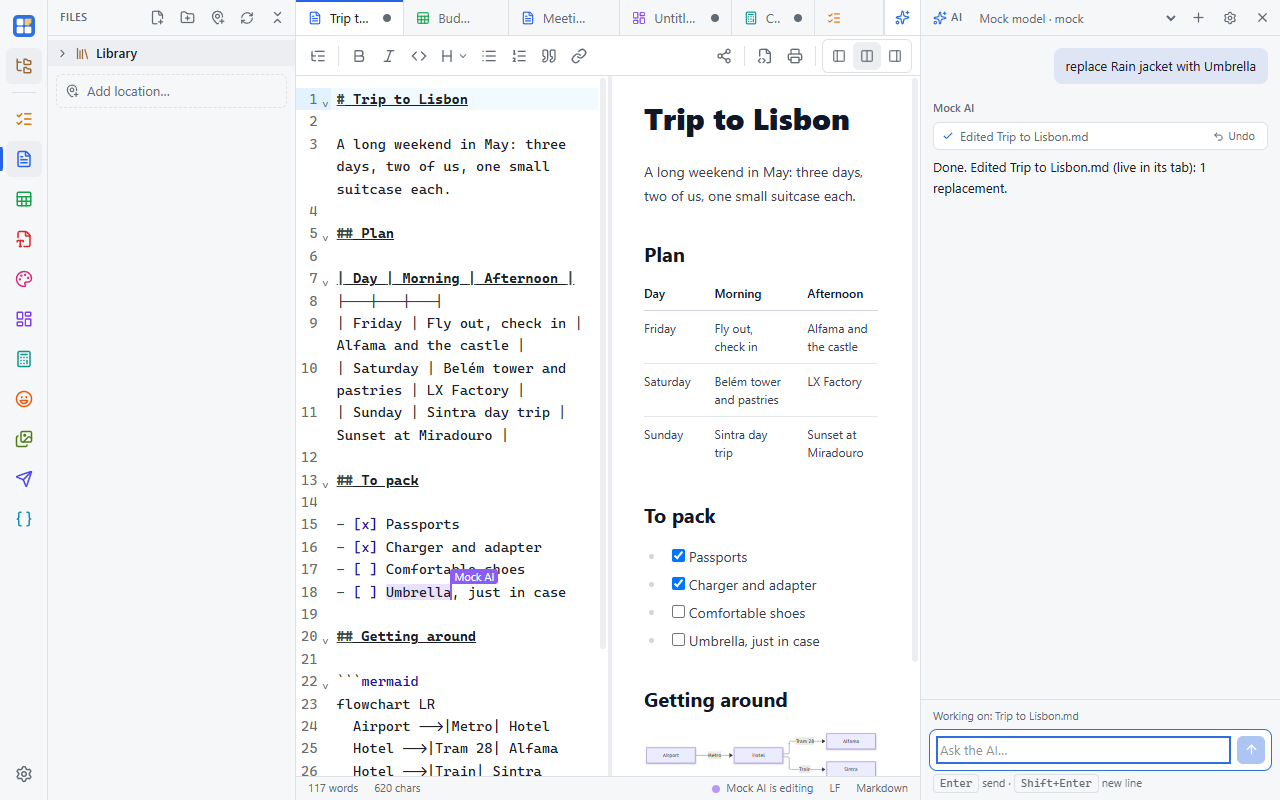
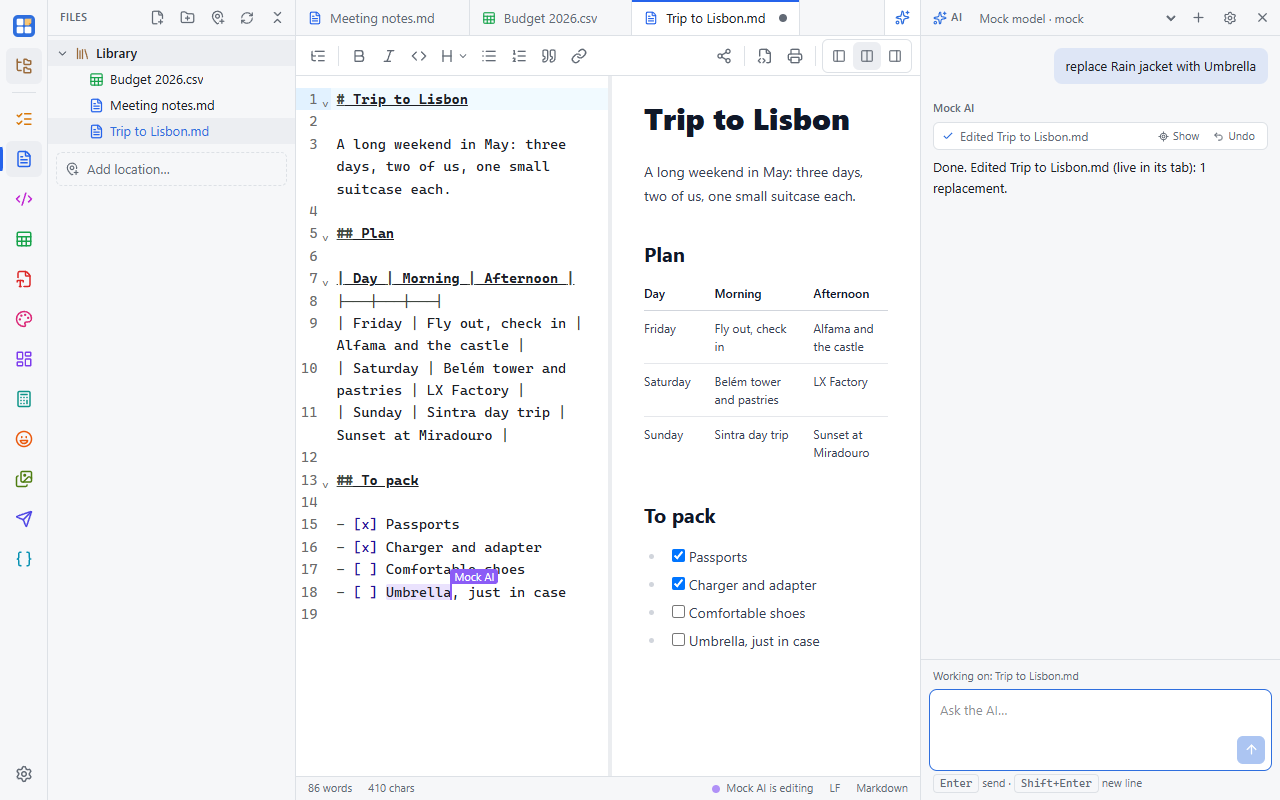
Docs for 0.2.0: HTML app, Excel workbooks, AI in every app, Settings page, screenshots
- New pages: HTML, and a Settings reference
- CSV: Excel and OpenDocument workbooks; files table, landing card (twelve apps)
- AI sidebar and agents: what the AI can do in each app, Show, permissions,
  apps agents can use, Claude Code and Codex setup
- Phone, shortcuts, Files panel menu, FAQ on Sync's removal, Paint undo
- Screenshots for HTML, PDF, Paint, Meme Maker, Images, API client, JSON and
  Activity; AI sidebar retaken with Show

diff --git a/site/src/lib/apps.ts b/site/src/lib/apps.ts
@@ -2,6 +2,7 @@
 import {
   Braces,
   Calculator,
+  CodeXml,
   FileText,
   FileType2,
   Images,
@@ -34,11 +35,19 @@ export const apps: AppInfo[] = [
     slug: "markdown",
   },
   {
+    id: "html",
+    name: "HTML",
+    icon: CodeXml,
+    color: "var(--tool-html)",
+    summary: "Edit a web page with the rendered page beside the code. Its scripts stay off until you turn them on.",
+    slug: "html",
+  },
+  {
     id: "csv",
     name: "CSV",
     icon: Sheet,
     color: "var(--tool-csv)",
-    summary: "Edit big spreadsheets fast: sort, filter, find and replace, fill series, and keep the file's exact format.",
+    summary: "Edit big spreadsheets fast: sort, filter, find and replace, fill series, and keep the file's exact format. Opens Excel and OpenDocument workbooks too.",
     slug: "csv",
   },
   {

diff --git a/site/src/styles/global.css b/site/src/styles/global.css
@@ -34,6 +34,7 @@
   --tool-images: #4d7c0f;
   --tool-api: #4f46e5;
   --tool-json: #0891b2;
+  --tool-html: #c026d3;
   --folder: #9a6a3a;
   /* Extra steps for Starlight's gray scale (strongest text first). */
   --fg-strong: #0f1114;
@@ -69,6 +70,7 @@
   --tool-images: #a3e635;
   --tool-api: #818cf8;
   --tool-json: #22d3ee;
+  --tool-html: #e879f9;
   --folder: #d2a679;
   --fg-strong: #f5f6f8;
   --gray-2: #c4cad2;
@@ -104,6 +106,7 @@
     --tool-images: #a3e635;
     --tool-api: #818cf8;
     --tool-json: #22d3ee;
+    --tool-html: #e879f9;
     --folder: #d2a679;
     --fg-strong: #f5f6f8;
     --gray-2: #c4cad2;

diff --git a/site/src/content/docs/docs/ai/agents.md b/site/src/content/docs/docs/ai/agents.md
@@ -4,9 +4,10 @@ description: Let Claude Desktop, Claude Code, Codex or any MCP client work in yo
 ---
 
 Simple Desk can act as an [MCP](https://modelcontextprotocol.io) server, so AI agents on your computer (Claude Desktop,
-Claude Code, Codex, or any MCP client) can read and edit your documents and to-dos while Simple Desk is open. Their edits
+Claude Code, Codex, or any MCP client) can read and edit your documents, tables, boards, PDFs, pictures and to-dos while
+Simple Desk is open. Their edits
 appear live, with their name on the cursor, and every change is listed in
-[AI activity](/docs/ai/activity/), where you can undo it.
+[AI activity](/docs/ai/activity/), where you can jump to it or undo it.
 
 This is in the desktop app only, and off until you turn it on.
 
@@ -28,10 +29,46 @@ Agents start a small helper (`simple-desk-agent --mcp`) that talks to the agent 
 Simple Desk if it isn't running. **Advanced** shows the raw endpoint (`http://127.0.0.1:47321/mcp`, Streamable HTTP with
 a bearer token) for clients that connect over HTTP.
 
+For Claude Code, the MCP tab shows a command to run in a terminal, with your app's path filled in:
+
+```sh
+claude mcp add simple-desk -- "<path to Simple Desk>" --mcp
+```
+
+For Codex, it shows an entry for `~/.codex/config.toml`:
+
+```toml
+[mcp_servers.simple-desk]
+command = "<path to Simple Desk>"
+args = ["--mcp"]
+```
+
 ## Permissions
 
-- **What agents may do:** read only, read and edit, or full.
+- **What agents may do:** **Read only**, **Read and edit**, or **Full**. Full also lets an agent delete and overwrite
+  (deleting to-dos, overwriting a file), and each of those asks you first. Sending an API request to another computer
+  also needs Full; requests to your own computer only need Read and edit.
 - **Ask me before every edit:** each change waits for your OK.
+- **Apps agents can use:** turn off the app tools an agent doesn't need, so it has fewer to read through. Files and
+  tabs are always on.
+
+## What agents can do
+
+| App | What an agent can do |
+|---|---|
+| Files and tabs | List and search your library, read any file (pictures as images), edit or create text files, open files, see your open tabs |
+| Markdown | Read with an outline, make focused edits, insert under a heading, create documents |
+| HTML and other text | Read and edit like any text file |
+| JSON | Read by path, edit values, format, minify or sort keys |
+| CSV | Read and query rows, edit cells, add or delete rows and columns, sort; Excel and OpenDocument sheets too |
+| Board | Read the board, add, update and delete elements, comment, take a snapshot, create boards |
+| Calculator | Read and edit graphs, analyze them (roots, intersections), evaluate expressions, create graphs |
+| PDF | Read text, look at pages, fill forms, add text, rotate, delete, move, insert or extract pages |
+| Paint | Edit a picture (resize, crop, rotate, shapes, text, fill), create pictures, generate them with your image service |
+| Meme Maker | Read and edit memes, search templates, create memes |
+| API client | Read and edit collections (secret values stay hidden), send requests, create collections |
+| Images | Inspect files, convert and resize, make icon sets, turn video into GIF or WebP |
+| To-do | List, add, update, complete and delete to-dos |
 
 Agents only reach your library and the locations you've added in the Files panel. Only programs on your own computer can
 connect (`127.0.0.1`), and only with the secret token. What an agent does with what it reads is up to that agent and the

diff --git a/site/src/content/docs/docs/ai/sidebar.md b/site/src/content/docs/docs/ai/sidebar.md
@@ -6,7 +6,7 @@ description: Chat with an AI about your documents. Bring your own key or use a l
 AI in Simple Desk works like a fast collaborator: its edits appear live in your open documents, with its name on the
 cursor, and each one can be undone on its own. It's optional and does nothing until you set up a model service.
 
-![The AI sidebar next to a Markdown document, after the AI replaced a word, with an Undo button](../../../../assets/screens/ai.png)
+![The AI sidebar next to a Markdown document, after the AI replaced a word, with Show and Undo buttons](../../../../assets/screens/ai.png)
 
 ## Set up a model
 
@@ -29,13 +29,24 @@ Open it with **Ctrl+Shift+A**, the sparkle button at the top right, or **Ctrl+K 
 looking at ("Working on: …"). It can:
 
 - answer questions about the document and summarize it;
-- edit Markdown with focused changes (find and replace, insert), never a blind rewrite;
-- create documents, browse and search your library, and read text files;
+- edit text, Markdown and HTML with focused changes (find and replace, insert), never a blind rewrite;
+- read and change JSON by path, and format, minify or sort it;
+- query and edit tables, including Excel and OpenDocument sheets: cells, rows, columns, sorting;
+- add, move and comment on things on a board, and look at a picture of it;
+- plot and analyze graphs, and work out calculations;
+- read PDFs, fill in forms, add text, and rotate, delete, move or extract pages;
+- edit pictures (resize, crop, shapes, text, colors) and generate new ones;
+- fill in memes, edit API collections and send their requests, and convert images or make icon sets;
+- create documents, browse and search your library;
 - add, update and complete to-dos.
+
+It uses each app's own tools, so it works on the document the way the app does. A file that's open in a tab changes in
+front of you.
 
 ## Undo, and asking first
 
-Every change shows as a chip with **Undo**, which takes back just that change, even after you've kept typing elsewhere.
+Every change shows as a chip with **Show** and **Undo**. **Show** opens the document at the change; **Undo** takes back
+just that change, even after you've kept typing elsewhere.
 Overwriting a file or deleting to-dos always asks you first.
 
 **Settings → AI → Activity** lists the changes an AI made since the app started (not what it only read). Changes made

diff --git a/site/src/content/docs/docs/apps/html.md b/site/src/content/docs/docs/apps/html.md
@@ -1,0 +1,50 @@
+---
+title: HTML
+description: Edit an HTML page and see it rendered beside the code, with the page's scripts off until you turn them on.
+---
+
+An editor for web pages. It opens `.html`, `.htm` and `.xhtml` files in a code editor, with the page rendered beside it.
+The app draws the page itself, so there's no extra browser to install. Turn it on in **Settings → Apps**.
+
+![An HTML page in Split view: the code on the left, the rendered page on the right](../../../../assets/screens/html.png)
+
+## Code, split or preview
+
+The buttons at the top right switch between **Code only**, **Split** and **Preview**. A page you open starts in Preview,
+and a new file starts in Split. The preview catches up with your typing after a short pause and keeps its scroll
+position. On a phone there's no Split: switch between the code and the page.
+
+The editor highlights HTML, including the CSS and JavaScript inside it. **Wrap lines** and **Copy** are in the toolbar.
+The status bar shows the page's title, its size, the number of lines, and whether scripts are on.
+
+Stylesheets, pictures and scripts that sit next to the file load as they would in a browser, so a page with a
+`style.css` and an `img` folder looks right. This works in the desktop app.
+
+## Scripts are off until you turn them on
+
+A page's JavaScript doesn't run until you click **Run scripts**. This keeps HTML files from other people harmless:
+opening a page can't run code. The setting is per tab.
+
+With scripts on, the page runs in a sandbox. It can't reach the app or your files.
+
+## Links
+
+With scripts off:
+
+- `#anchor` links scroll within the page;
+- web and email links open in your browser;
+- links to files next to the page open them in their app, and another `.html` page opens in a new tab.
+
+With scripts on, links navigate inside the preview, as they would in a browser. **Reload preview** brings your page
+back.
+
+## Open in a browser
+
+**Open in browser** shows the saved file in your default browser. It's there once the file is saved and has no
+unsaved changes.
+
+## AI
+
+The [AI sidebar](/docs/ai/sidebar/) and [connected agents](/docs/ai/agents/) edit HTML like any text file. Their
+changes appear live with their name on the cursor, and [Show](/docs/ai/activity/#showing-a-change) takes you back to
+them later.

diff --git a/site/src/content/docs/docs/settings.md b/site/src/content/docs/docs/settings.md
@@ -1,0 +1,51 @@
+---
+title: Settings
+description: What's in each section of Settings, and where each one is explained.
+---
+
+Open Settings with the gear at the bottom left, **Ctrl+,** or **Ctrl+K → Settings**. The sections are listed down the
+left side.
+
+## General
+
+- **Appearance:** Light, Dark, or System (follows your computer).
+- **Your name:** shown on your [board comments](/docs/apps/board/) and to the people you
+  [share a document](/docs/sharing/live-sharing/) with.
+- **Recent files:** the list on Home and in the command palette. **Clear** empties it.
+
+## Apps
+
+Turns apps on or off. A turned-off app disappears from Home, the sidebar, the command palette and the **New** menu, but
+its files still open when you double-click one. To-do, HTML, Calculator, Meme Maker, Images, the API client and JSON
+start turned off. See [First run](/docs/first-run/#choosing-your-apps).
+
+## Files
+
+- **Library:** where your documents live, `Documents/Simple Desk` to start with. **Change location…** can move your
+  files to the new place.
+- **Locations:** the other folders shown in the Files panel. Removing one only removes it from the panel; nothing is
+  deleted. (Desktop only.)
+
+See [First run](/docs/first-run/) and [Using several computers](/docs/several-computers/).
+
+## Sharing
+
+The server used for [live sharing](/docs/sharing/live-sharing/), and the documents you're sharing or have joined, with
+**Stop sharing**.
+
+## AI
+
+Two tabs, with the **Activity** list under both:
+
+- **API:** your **Model services** (Anthropic, OpenAI, OpenRouter, xAI, Ollama or any OpenAI-compatible server) for the
+  [AI sidebar](/docs/ai/sidebar/), and **Images** services for Paint's Generate.
+- **MCP:** lets [agents on your computer](/docs/ai/agents/), like Claude Desktop, Claude Code and Codex, work in Simple
+  Desk: **Enable MCP server**, what agents may do, which apps they can use, and how to connect each agent. (Desktop
+  only.)
+- **Activity:** every change an AI made since the app started, with **Show** and **Undo**. See
+  [Activity and undo](/docs/ai/activity/).
+
+## About
+
+The version you have, and [updates](/docs/updates/): **Check now**, **Update and restart** when an update is ready, and
+whether to check automatically.

diff --git a/site/src/content/docs/docs/apps/csv.md b/site/src/content/docs/docs/apps/csv.md
@@ -1,11 +1,12 @@
 ---
 title: CSV
-description: A fast spreadsheet-style editor for CSV and TSV files that keeps the file's exact format.
+description: A fast spreadsheet-style editor for CSV and TSV files that keeps the file's exact format, and opens Excel and OpenDocument workbooks.
 ---
 
 A spreadsheet-style editor for `.csv` and `.tsv` files. It handles large files smoothly and keeps your file's format:
 the delimiter, quoting, line endings and encoding are detected and kept, so a file you open and save without changes
-stays byte for byte the same.
+stays byte for byte the same. It also opens Excel (`.xlsx`) and OpenDocument (`.ods`) workbooks; see
+[below](#excel-and-opendocument-workbooks).
 
 ![A budget CSV with the Details panel showing statistics for the Amount column](../../../../assets/screens/csv.png)
 
@@ -47,6 +48,18 @@ and encoding.
 
 Rows with a different number of fields than the rest are flagged. The warning in the status bar jumps between them and
 can pad short rows.
+
+## Excel and OpenDocument workbooks
+
+`.xlsx` and `.ods` files open with a tab for each sheet at the bottom. Everything above works on the sheet you're on.
+
+Workbooks are edited as values: dates show as `2025-01-31`, and formulas show their last result. When you save over a
+workbook, only the sheets you edited are rewritten, as plain values, so their formatting, formulas and charts are lost.
+The first save asks before it does this, and offers **Save a copy…** instead. Sheets you didn't edit are kept exactly as
+they were.
+
+**Save As** offers Excel workbook and OpenDocument spreadsheet after CSV and TSV. Saving a workbook as CSV saves the
+sheet you're on. Old `.xls` files aren't supported: save them as `.xlsx` in Excel first.
 
 ## Export
 

diff --git a/site/src/content/docs/docs/first-run.md b/site/src/content/docs/docs/first-run.md
@@ -22,8 +22,10 @@ The Files panel (the folder button at the top left, or **Ctrl+Shift+E**) shows t
 - **Library**: your library folder.
 - **Locations**: other folders you add with **Add location…**, for example a project folder or a USB drive.
 
-Click a file to open it in its app. Right-click for **New file**, **New folder**, **Rename** (F2), **Move to Recycle
-Bin** (Del) and **Reveal in Explorer** (Finder on a Mac). Drag rows to move them between folders, or drop files from
+Click a file to open it in its app. Right-click for **New file**, **New folder**, **Open in** another app (for example
+a picture in Images), **Open with default app**, **Rename** (F2), **Copy path**, **Move to Recycle Bin** (Del) and
+**Reveal in Explorer** (Finder on a Mac). Right-click a location for **Remove location**, which only takes it off the
+panel. Drag rows to move them between folders, or drop files from
 your computer onto a folder to copy them in. The Open and Save dialogs start in the folder you selected.
 
 ## Choosing your apps
@@ -31,7 +33,7 @@ your computer onto a folder to copy them in. The Open and Save dialogs start in 
 **Settings → Apps** turns apps on or off. Turned-off apps disappear from Home, the sidebar, the command palette and the
 **New** menu, but their files still open when you double-click one.
 
-To-do, Calculator, Meme Maker, Images, the API client and JSON start turned off to keep things simple. Turn on the ones
+To-do, HTML, Calculator, Meme Maker, Images, the API client and JSON start turned off to keep things simple. Turn on the ones
 you want.
 
 Each app has its own color (Markdown blue, CSV green, PDF red, Paint pink, Board violet and so on). Its icon uses that

diff --git a/site/src/content/docs/docs/ai/activity.md b/site/src/content/docs/docs/ai/activity.md
@@ -7,6 +7,8 @@ Whether a change comes from the [AI sidebar](/docs/ai/sidebar/) or from an [agen
 Simple Desk records it, lets you jump to it, and lets you take it back. You can always see who changed what and where,
 and nothing an AI does has to be permanent.
 
+![Settings → AI with the Activity list: changes by Claude Code, each with Show and Undo](../../../../assets/screens/activity.png)
+
 ## What gets recorded
 
 Every change an AI makes is recorded:
@@ -80,7 +82,7 @@ An undone change is struck through and marked **Undone**. What Undo does depends
 | A file that wasn't open | Puts back the whole file as it was before the AI wrote it. Anything changed in that file since then is replaced too. |
 | A new file the AI created | Moves the file to the Recycle Bin (the Trash on macOS and Linux), so you can still get it back. |
 | To-dos | Puts back just the to-dos that change touched, as they were before. Your other to-dos aren't affected. |
-| A picture in Paint | Not in the Activity list's Undo. The picture arrives as a selection you can move; keep it, or press **Ctrl+Z** in Paint. |
+| A picture in Paint | An edit to an open picture is taken back as long as nothing changed after it; otherwise use **Ctrl+Z** in Paint. A picture that wasn't open is put back as it was. A generated picture arrives as a selection you can move: keep it, or press **Ctrl+Z**. |
 
 **Ctrl+Z works too.** In an open document, each AI edit is its own step in the editor's undo history, so pressing
 Ctrl+Z right after an AI edit takes it back. Use the Undo button when you want one AI edit gone and everything after it

diff --git a/site/src/content/docs/docs/shortcuts.md b/site/src/content/docs/docs/shortcuts.md
@@ -9,7 +9,7 @@ On a Mac, the shortcuts below use **Ctrl** for now, not Cmd.
 
 | Shortcut | Does |
 |---|---|
-| Ctrl+K | Command palette: commands, apps, recent files |
+| Ctrl+K (or Ctrl+Shift+P) | Command palette: commands, apps, recent files |
 | Ctrl+, | Settings |
 | Ctrl+Shift+E | Show or hide the Files panel |
 | Ctrl+Shift+A | Show or hide the AI sidebar |
@@ -18,7 +18,7 @@ On a Mac, the shortcuts below use **Ctrl** for now, not Cmd.
 | Ctrl+S | Save |
 | Ctrl+Shift+S | Save as |
 | Ctrl+W | Close the tab |
-| Ctrl+Tab | Next tab |
+| Ctrl+Tab / Ctrl+Shift+Tab | Next / previous tab |
 | F2 | Rename (Files panel) |
 | Del | Move to Recycle Bin / Trash (Files panel) |
 
@@ -57,6 +57,8 @@ On a Mac, the shortcuts below use **Ctrl** for now, not Cmd.
 | X | Swap color 1 and color 2 |
 | [ / ] | Smaller / bigger tool |
 | Ctrl+A, Ctrl+C / X / V | Select all, copy, cut, paste |
+| Del | Delete the selection |
+| Ctrl+Z / Ctrl+Y | Undo / redo |
 | Space+drag or middle-drag | Pan |
 | Ctrl+wheel | Zoom at the cursor |
 | Shift while drawing | Square, circle or 45° line |
@@ -74,7 +76,8 @@ On a Mac, the shortcuts below use **Ctrl** for now, not Cmd.
 | P | Pen |
 | F | Frame |
 | C | Comment |
-| Ctrl+C / V / D | Copy, paste, duplicate |
+| Ctrl+C / V / D | Copy, paste, duplicate (works across boards) |
+| Wheel | Pan |
 | Ctrl+wheel | Zoom |
 
 ## Meme Maker

diff --git a/site/src/content/docs/docs/sharing/phone.md b/site/src/content/docs/docs/sharing/phone.md
@@ -22,7 +22,7 @@ document writes it into the library.
 
 - **To-do**, **Markdown**, **PDF** and the **Calculator** are tuned for touch. To-do reminders are scheduled with
   Android, so they arrive while the app is closed.
-- **CSV**, **Board**, **JSON** and the **API client** open as they are.
+- **CSV**, **HTML**, **Board**, **Meme Maker**, **JSON** and the **API client** open as they are.
 - **Paint** and **Images** aren't offered on phones yet.
 - [Live sharing](/docs/sharing/live-sharing/) works: scan a share's QR code with the phone to join.
 - AI keys can't be stored on Android yet, and agents (MCP) are desktop only.

diff --git a/site/src/content/docs/docs/apps/images.md b/site/src/content/docs/docs/apps/images.md
@@ -6,6 +6,8 @@ description: Convert and resize pictures in bulk, make app icon sets, and turn v
 Batch image conversion, icon sets and video-to-GIF. Turn it on in **Settings → Apps**, then right-click pictures in
 the Files panel → **Open in Images**. All your images go into one Images tab.
 
+![Four photos queued in Images for converting to PNG, with format, resize and save options](../../../../assets/screens/images.png)
+
 ## Convert
 
 Convert to PNG, JPEG, WebP (lossy with a quality setting, or lossless), ICO (16 to 256 px), BMP, TIFF or GIF, and resize
